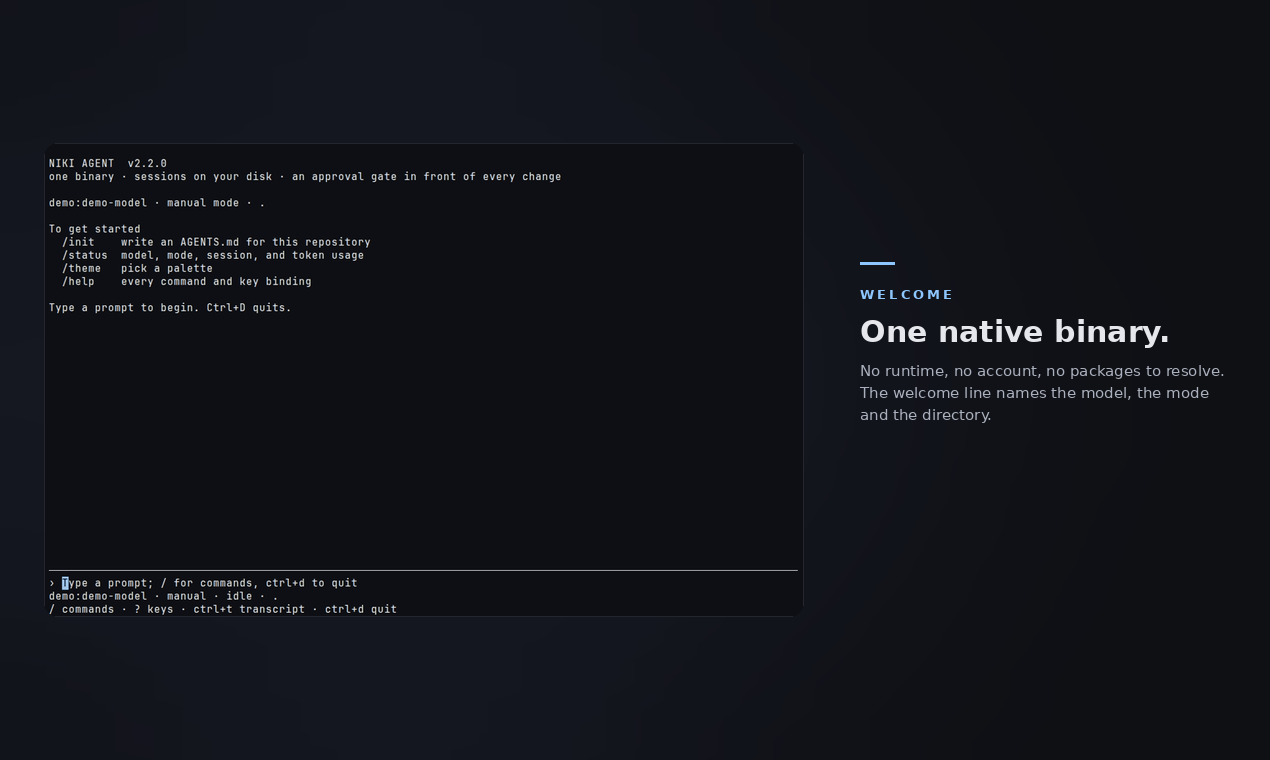
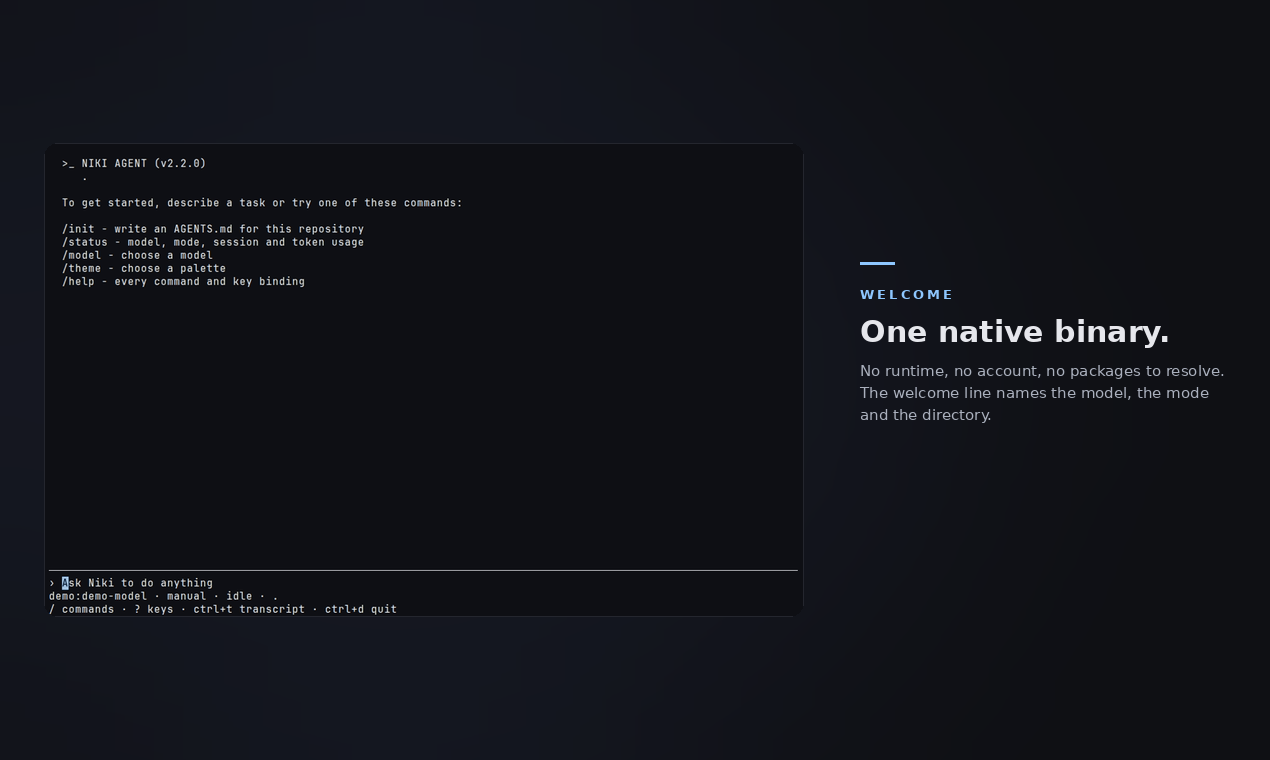
docs(repo): refresh the demo recording and gallery for the composed interface

Changed region(s): [[0.0307, 0.2118, 0.4299, 0.4237], [0.0307, 0.7566, 0.2764, 0.7868]]

diff --git a/README.md b/README.md
@@ -16,7 +16,7 @@ An approval card in front of anything that changes your machine.
 </div>
 
 <div align="center">
-  <img src="intro.gif" width="1000" alt="A Niki Agent session: it reads src/lib.rs, asks before rewriting it so backoff caps at three attempts, runs cargo test, and reports that both tests pass">
+  <img src="intro.gif" width="1000" alt="A Niki Agent session: it reads src/lib.rs, asks before rewriting it so backoff caps at three attempts, runs cargo test, reports that both tests pass, then opens the key map">
 </div>
 
 <p align="center"><sub>Recorded from the shipped binary against a loopback model, with no key and no network. The card in the middle is the approval gate.</sub></p>

diff --git a/launch/READINESS.md b/launch/READINESS.md
@@ -92,7 +92,7 @@ descriptions are a future improvement, not a launch blocker.
 | Homepage field | `https://niki-site.vercel.app` |
 | Roadmap issue #114 | 2.2.0 comment posted |
 | `SECURITY.md` | Declares 2.2.x supported |
-| README demo | `intro.gif`, recorded from the 2.2.0 binary, 31.5 s |
+| README demo | `intro.gif`, recorded from the 2.2.0 binary, 38 s |
 | Launch gallery | Four slides rendered from the same recording, OCR-verified |
 
 ## Known non-blockers
